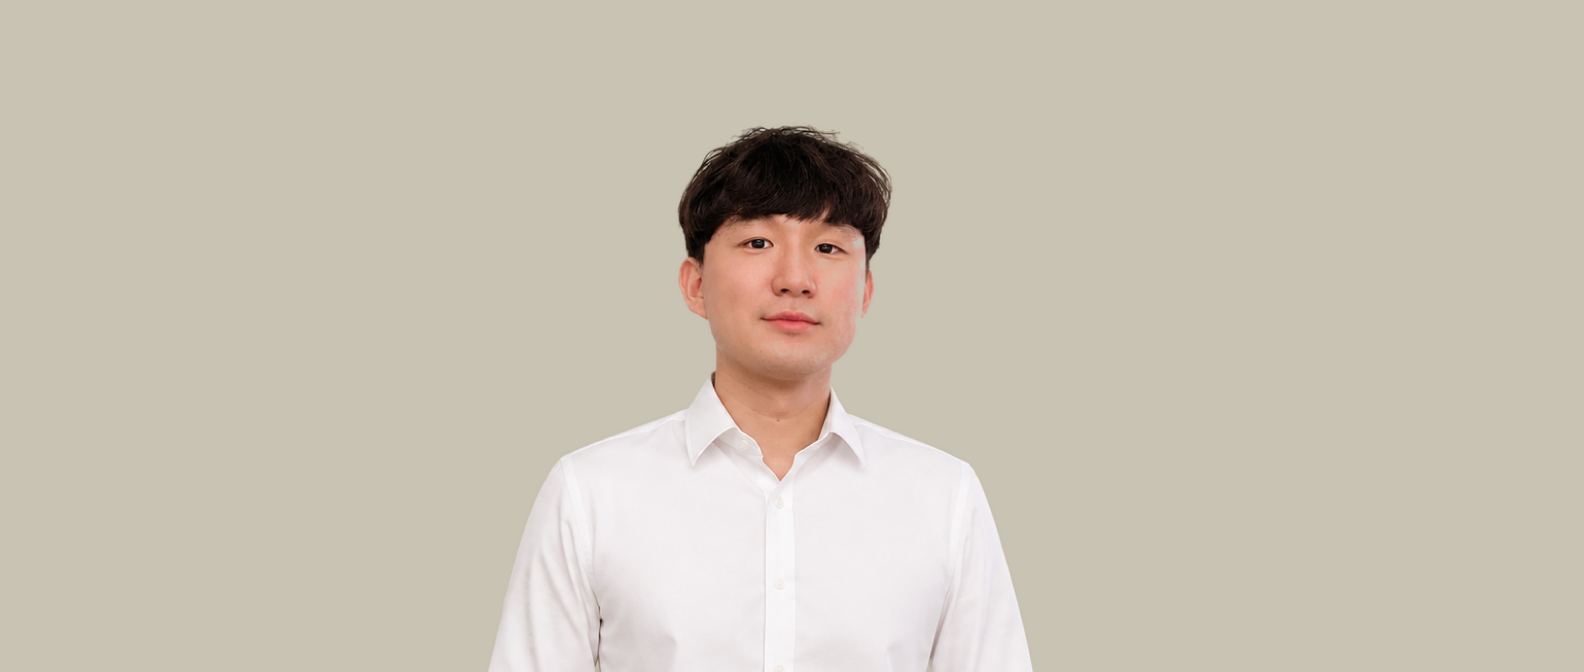
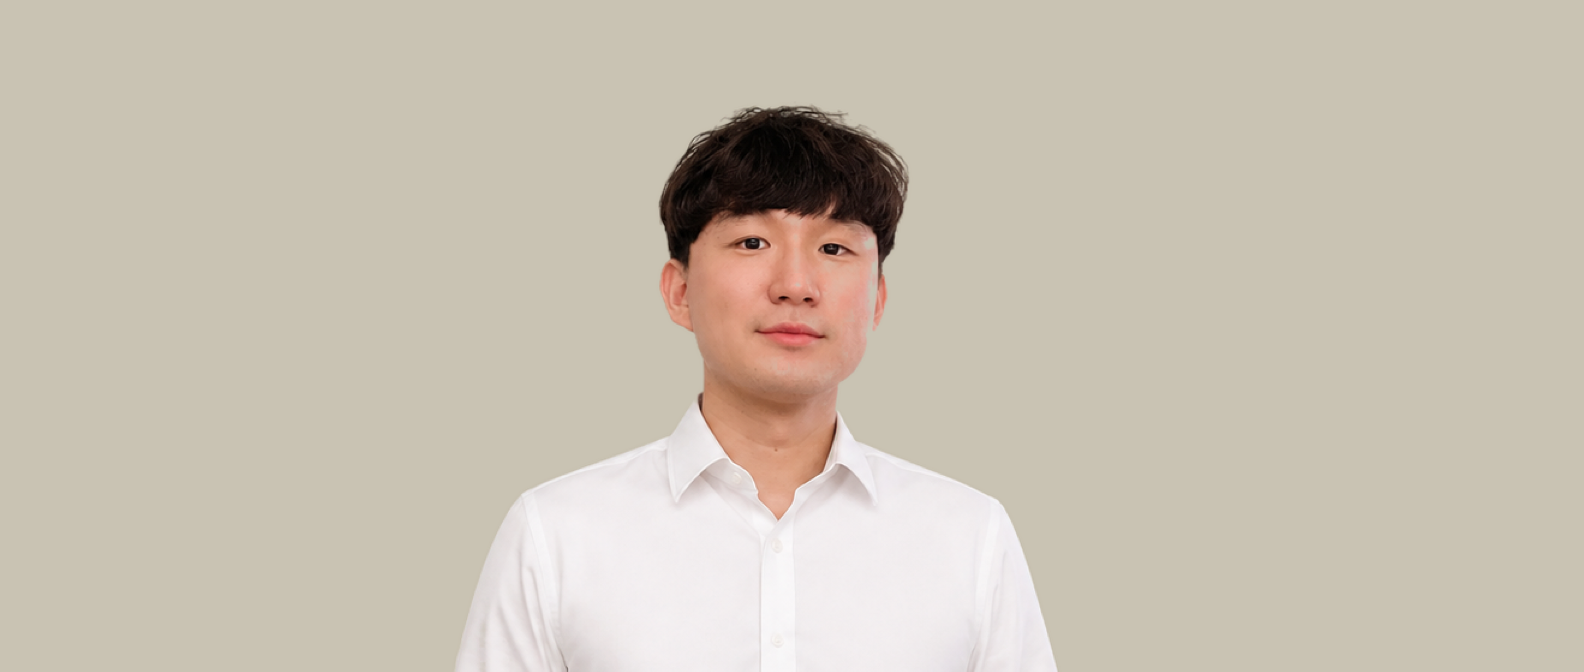
Stop the fitter inventing pixels under long hair
Chloe's and Rachel's portraits had vertical streaks across the bottom
quarter. The cause was mine: when a photo scaled down, the fitter filled
the bottom margin by stretching the source's last pixel row downward. I
justified that in the docs with "the torso leaves the bottom edge close
to vertical" - true for the short-haired portraits I checked, false for
anyone whose hair crosses that edge, where a stretched row turns real
horizontal texture into stripes.

Padding under the subject is now gone rather than improved, because
there is no honest fill for it. A photo that does not reach far enough
below the eye line is refused, printing the shortfall and telling the
operator to supply a less-cropped original. Chloe's PFP had already been
cropped once, so it is now fitted from the uncropped 1672x941 file in
the vault.

The face target moves 185 -> 216, which is the smallest size that lets
every remaining photo scale up rather than down; Rachel is the binding
one at 1.022. Side and top margins are still filled, with flat backdrop
colour, and the tool now verifies those edges really are backdrop before
it does it.

Final: face width 210.6-218.2, eye line 244.2-246.1, backdrop #C9C3B3
on all nine.

Changed region(s): [[0.3403, 0.1562, 0.6187, 0.7812], [0.2784, 0.7188, 0.4331, 1.0], [0.5878, 0.7188, 0.6806, 1.0]]

diff --git a/tools/pfp/fit-portrait.swift b/tools/pfp/fit-portrait.swift
@@ -3,13 +3,20 @@
 //   swift fit-portrait.swift <input> <output.png> [--measure-only]
 //
 // Detects the face with Vision, then scales and positions the photo so every
-// portrait on the team page shares one face size and one eye line. Margins
-// created by scaling down are filled by stretching the source's own edge
-// pixels, which is seamless because the studio backdrop is flat and the torso
-// leaves the bottom edge vertically.
+// portrait on the team page shares one face size and one eye line.
+//
+// It never invents pixels underneath a subject. An earlier version filled the
+// bottom margin by stretching the source's last row downward; that is fine for
+// short hair but it tore Chloe's and Rachel's long hair into vertical streaks,
+// because their hair crosses the bottom edge with real horizontal texture. So
+// a photo that does not reach far enough below the eye line is now REJECTED
+// with the shortfall printed — supply a less-cropped original instead.
+//
+// Side and top margins are filled with the flat backdrop colour, which is
+// safe: the tool verifies those edges really are backdrop before it does it.
 //
 // House frame (see CLAUDE.md -> Current Team):
-//   canvas 1584x672 · face width 185px · eye line y=245 · face centred at x=792
+//   canvas 1584x672 · face width 216px · eye line y=245 · face centred at x=792
 
 import Foundation
 import Vision
@@ -18,7 +25,7 @@ import ImageIO
 import UniformTypeIdentifiers
 
 let OUT_W = 1584.0, OUT_H = 672.0
-let TARGET_FACE_W = 185.0, TARGET_EYE_Y = 245.0, TARGET_FACE_CX = 792.0
+let TARGET_FACE_W = 216.0, TARGET_EYE_Y = 245.0, TARGET_FACE_CX = 792.0
 
 let args = CommandLine.arguments
 guard args.count >= 2 else {
@@ -85,9 +92,43 @@ guard !outPath.isEmpty else {
     FileHandle.standardError.write("missing <output.png>\n".data(using: .utf8)!); exit(2)
 }
 
-// ---- render ---------------------------------------------------------------
+// ---- refuse to invent pixels ----------------------------------------------
 let tx = TARGET_FACE_CX - faceCX * scale
 let ty = TARGET_EYE_Y   - eyeY   * scale
+let dwPre = SW * scale, dhPre = SH * scale
+
+func die(_ m: String) -> Never {
+    FileHandle.standardError.write("\(( inPath as NSString).lastPathComponent): \(m)\n".data(using: .utf8)!)
+    exit(3)
+}
+if ty + dhPre < OUT_H {
+    let short = OUT_H - (ty + dhPre)
+    die(String(format: "photo stops %.0fpx short of the bottom of the frame. The subject crosses that edge, "
+        + "so there is nothing honest to put there — use an original with more room below the chest. "
+        + "It needs %.0fpx below the eye line; this one has %.0f.",
+        short, (OUT_H - TARGET_EYE_Y) / scale, SH - eyeY))
+}
+// side and top margins get a flat backdrop fill, so check those edges really are backdrop
+func edgeIsBackdrop(_ pts: [(Int, Int)]) -> Bool {
+    for (x, y) in pts {
+        let i = (y * img.width + x) * 4
+        let d = max(abs(Double(buf[i]) - Double(bgR)),
+                    max(abs(Double(buf[i+1]) - Double(bgG)), abs(Double(buf[i+2]) - Double(bgB))))
+        if d > 26 { return false }
+    }
+    return true
+}
+if ty > 0, !edgeIsBackdrop((0..<img.width).filter { $0 % 8 == 0 }.map { ($0, 1) }) {
+    die("needs a top margin but the top edge of the photo is not clean backdrop.")
+}
+if tx > 0, !edgeIsBackdrop((0..<img.height).filter { $0 % 8 == 0 }.map { (1, $0) }) {
+    die("needs a left margin but the left edge of the photo is not clean backdrop.")
+}
+if tx + dwPre < OUT_W, !edgeIsBackdrop((0..<img.height).filter { $0 % 8 == 0 }.map { (img.width - 2, $0) }) {
+    die("needs a right margin but the right edge of the photo is not clean backdrop.")
+}
+
+// ---- render ---------------------------------------------------------------
 guard let ctx = CGContext(data: nil, width: Int(OUT_W), height: Int(OUT_H), bitsPerComponent: 8,
                           bytesPerRow: 0, space: cs,
                           bitmapInfo: CGImageAlphaInfo.noneSkipLast.rawValue) else { exit(1) }
@@ -98,20 +139,9 @@ ctx.fill(CGRect(x: 0, y: 0, width: OUT_W, height: OUT_H))
 func rect(_ x: Double, _ y: Double, _ w: Double, _ h: Double) -> CGRect {   // top-left -> CG
     CGRect(x: x, y: OUT_H - y - h, width: w, height: h)
 }
-let dw = SW * scale, dh = SH * scale, edge = 2
-if ty > 0, let s = img.cropping(to: CGRect(x: 0, y: 0, width: img.width, height: edge)) {
-    ctx.draw(s, in: rect(tx, 0, dw, ty))
-}
-if ty + dh < OUT_H, let s = img.cropping(to: CGRect(x: 0, y: img.height - edge, width: img.width, height: edge)) {
-    ctx.draw(s, in: rect(tx, ty + dh, dw, OUT_H - (ty + dh)))
-}
-if tx > 0, let s = img.cropping(to: CGRect(x: 0, y: 0, width: edge, height: img.height)) {
-    ctx.draw(s, in: rect(0, ty, tx, dh))
-}
-if tx + dw < OUT_W, let s = img.cropping(to: CGRect(x: img.width - edge, y: 0, width: edge, height: img.height)) {
-    ctx.draw(s, in: rect(tx + dw, ty, OUT_W - (tx + dw), dh))
-}
-ctx.draw(img, in: rect(tx, ty, dw, dh))
+// the canvas is already flooded with the backdrop colour, so any side or top
+// margin is simply that flat colour — nothing is stretched or invented
+ctx.draw(img, in: rect(tx, ty, dwPre, dhPre))
 
 guard let out = ctx.makeImage(),
       let dest = CGImageDestinationCreateWithURL(URL(fileURLWithPath: outPath) as CFURL,

diff --git a/CLAUDE.md b/CLAUDE.md
@@ -72,7 +72,7 @@ Team cards are **randomly shuffled** on each page load via `shuffleTeamCards()` 
 
 **Profile photos are all `1584 x 672`** (the LinkedIn banner ratio) on a flat warm-greige backdrop, subject on a plain top, frame cutting off around chest level. The card renders them at `height: 200px; object-fit: cover`, so it also centre-crops horizontally — **vertical framing is what the visitor sees; the wide empty sides get cut.**
 
-🔴 **Do not eyeball the crop — run `tools/pfp/fit-portrait.swift`.** The photos come from different shoots, and left alone the faces land at wildly different sizes: measured 2026-09-06, face width ran from **157px (Sireal) to 223px (Chloe)**, a 1.42x spread, with the eye line moving 56px between cards. In a nine-card grid that reads as sloppiness, and it is not fixable by eye. The tool detects the face with Vision and scales/positions the photo into one house frame — **face width 185px, eye line y=245, face centred at x=792** — which brought those spreads to 4px and 2px. `tools/pfp/readme.md` has the full rationale; `tools/pfp/fit-all.sh` re-fits the whole roster if the constants ever change.
+🔴 **Do not eyeball the crop — run `tools/pfp/fit-portrait.swift`.** The photos come from different shoots, and left alone the faces land at wildly different sizes: measured 2026-09-06, face width ran from **157px (Sireal) to 223px (Chloe)**, a 1.42x spread, with the eye line moving 56px between cards. In a nine-card grid that reads as sloppiness, and it is not fixable by eye. The tool detects the face with Vision and scales/positions the photo into one house frame — **face width 216px, eye line y=245, face centred at x=792** — which brought those spreads to 8px and 2px. `tools/pfp/readme.md` has the full rationale; `tools/pfp/fit-all.sh` re-fits the whole roster if the constants ever change.
 
 ```bash
 swift tools/pfp/fit-portrait.swift <source>.png images/PFP/Name.png   # fit a new member
@@ -80,6 +80,8 @@ swift tools/pfp/fit-portrait.swift images/PFP/Name.png --measure-only # check, c
 ```
 
 Normalise on **face** width, not head or shoulder width — hair volume is a person's own attribute and should not drive the layout. Always fit from the original photo, never from an already-fitted file; each pass resamples.
+
+🔴 **The tool refuses a photo rather than inventing pixels below the subject, and that refusal is the point.** An earlier version padded a bottom margin by stretching the source's last row downward. It looked fine on the short-haired portraits and **tore Chloe's and Rachel's long hair into vertical streaks** — hair crosses the bottom edge with real horizontal texture, which a stretched row turns into stripes. If it tells you a photo stops N px short, do not lower the target: find a less-cropped original. Chloe's is fitted from the uncropped `1672x941` file in `PARA/1. Inbox/01_Images/`, not from the already-cropped PFP. Side and top margins are still filled, with flat backdrop colour, and the tool verifies those edges really are backdrop first.
 
 **The backdrop colour is levelled by a second tool, `tools/pfp/level-backdrop.swift`** — the shoots ranged from `#AEA794` (Annie, visibly the darkest card) to `#D7D3CA` (Rachel); they are now all `#C9C3B3`. Its mask is a **flood fill inward from the border, not a colour threshold**: a threshold wide enough to catch hair edges also caught Rachel's cheek, which sits only 30 levels from her backdrop, and shifted her skin. Flood fill cannot reach a face because hair and clothing enclose it. Run it **after** `fit-all.sh` — fitting stretches edge pixels to fill margins, so level the colour once the geometry is final.
 

diff --git a/tools/pfp/readme.md b/tools/pfp/readme.md
@@ -14,7 +14,7 @@ over 56px between cards. In a nine-card grid that reads as sloppiness.
 | | |
 |---|---|
 | canvas | `1584 x 672` |
-| face width | **185 px** |
+| face width | **216 px** |
 | eye line | **y = 245** |
 | face centre | **x = 792** (frame centre) |
 
@@ -40,18 +40,36 @@ Needs macOS with the Xcode command line tools — it uses Vision for face
 detection and CoreGraphics to render. No other dependency, and nothing is added
 to the site build (there isn't one).
 
-## How the margins are filled
+## Why it refuses photos instead of padding them
 
 Scaling a photo **up** just crops in, so it always covers the canvas. Scaling
-**down** leaves margins. Those are filled by stretching the source's own two
-outermost pixel rows/columns outward. It is seamless here for two reasons: the
-backdrop is flat (measured deviation 0–5 per channel), and the torso leaves the
-bottom edge close to vertical, so extending the bottom row continues the body
-straight down instead of leaving a hole.
+**down** leaves margins, and a margin under the subject cannot be filled
+honestly — there is no record of what was there.
 
-If a future photo has a gradient backdrop or a subject that leaves the bottom
-edge at an angle, this trick will show — re-shoot or re-cut the subject onto a
-flat backdrop first.
+The first version filled it by stretching the source's last row downward. That
+looked fine on the short-haired portraits and **tore Chloe's and Rachel's long
+hair into vertical streaks**, because their hair crosses the bottom edge with
+real horizontal texture that a single stretched row turns into stripes. The
+face-size target was raised from 185 to 216 partly to make that case rare, and
+the padding was removed outright.
+
+Now a photo that does not reach far enough below the eye line is **rejected**,
+with the shortfall printed:
+
+```
+Chloe.png: photo stops 19px short of the bottom of the frame. The subject
+crosses that edge, so there is nothing honest to put there — use an original
+with more room below the chest. It needs 442px below the eye line; this one
+has 422.
+```
+
+That is what happened to Chloe: her `images/PFP/Chloe.png` had already been
+cropped once, so it was re-fitted from the uncropped `1672x941` original in
+`PARA/1. Inbox/01_Images/`.
+
+Side and top margins **are** filled, with the flat backdrop colour — those
+edges are pure backdrop and the tool checks that before doing it, refusing if
+they are not.
 
 ## Levelling the backdrop colour
 
